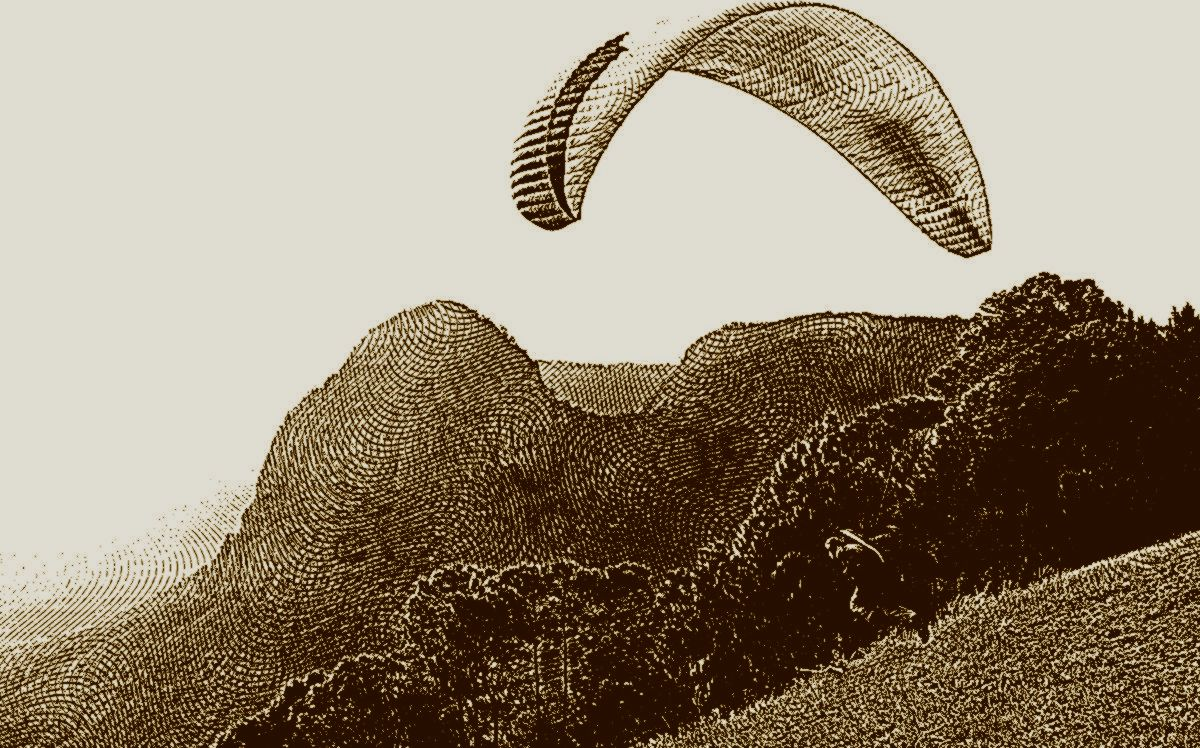
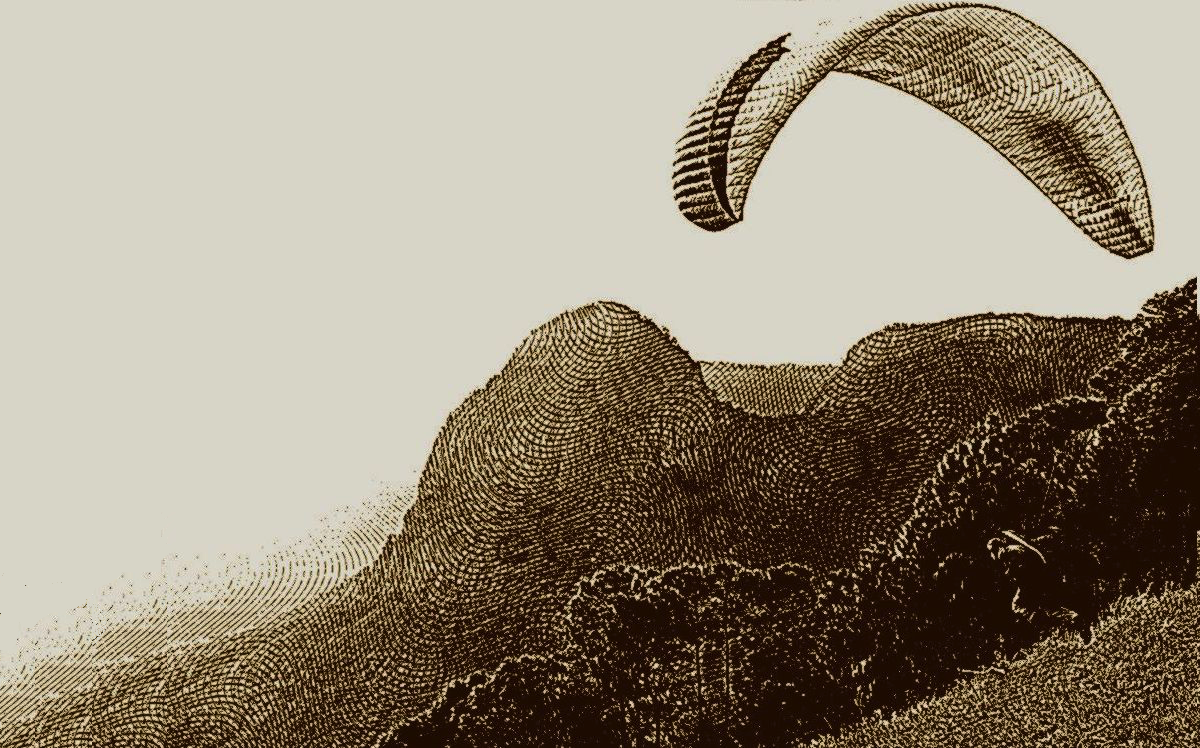
Remove console logs and empty/duplicate files.

diff --git a/index.html b/index.html
@@ -13,8 +13,8 @@
       <div class='page'>
       <header>
         <div style='width:100%;' class='clearfix'>
-        <h1 style='float:right;'>Flight Log</h1>
-        <div>
+          <h1 style='float:right;'>Flight Log</h1>
+        </div>
         <h4><a id='logout' name='logout'>Sign Out</a></h4>
       </header>
       <hr>
@@ -35,9 +35,9 @@
           <input class='login' name="credentials[password]" type="password" placeholder="password">
           <button type='submit'>Log In</button>
         </form>
-        <h4 id='sign-up-link'>Don't have a username yet? <a>Please Sign Up!</a><h4>
+        <h4 id='sign-up-link'>Don't have a username yet? <a>Please Sign Up!</a></h4>
         <form id='sign-up'>
-          <h3>First time here? Pick a username and Password to sign up</h3>
+          <h3>First time here?</h3><h4> Pick a username and Password to sign up</h4>
           <input class='login' name="credentials[email]" type='text' placeholder="username">
           <input class='login' name="credentials[password]" type="password" placeholder="password">
           <input class='login' name="credentials[password_confirmation]" type="password" placeholder="confirm password">
@@ -49,94 +49,93 @@
       </section>
       <h2 id="section-header"></h2>
       <p id="section-alerts" class='alert'></p>
-       <div class='image-container'>
-         <img id='pg-sketch' src="https://raw.githubusercontent.com/dianamcnulty/flightlogclient/master/assets/images/glidersketch.jpg" alt='paraglider-sketch'>
-       </div>
+     <div class='image-container'>
+       <img id='pg-sketch' src="https://raw.githubusercontent.com/dianamcnulty/flightlogclient/master/assets/images/glidersketch.jpg" alt='paraglider-sketch'>
+     </div>
 <!-- Add Flights section -->
-      <section id='add-flights-view' class='page'>
-        <form id='new-flight-form' autocomplete="on">
-          <label>Flight Type:</label><input class="flight-input" type="string" name="flight[flight_type]" placeholder="pg, hg, ppg, etc."><br>
-          <label>Date:</label><input class="flight-input" type="date" name="flight[date]" autocomplete="off"><br>
-          <label>Time:</label><input class="flight-input" type="time" name="flight[time]" autocomplete="off"><br>
-          <label>Location:</label><input class="flight-input" type="text" name="flight[launch]" placeholder="Launch Site"><br>
-          <label>Landing Zone:</label><input class="flight-input" type="text" name="flight[lz]" placeholder="Landing Zone"><br>
-          <label>Duration:</label> <span class='input-desc'>hrs.</span><input class="flight-input number-box" type="number" min='0' name="flight[hrs]"  placeholder="0" autocomplete="off">
-          <span>mins.</span><input class="flight-input number-box" type="number" min='0' name="flight[min]"  placeholder="0" autocomplete="off">
-          <br>
-          <label>Distance:</label> <span class='input-desc'>kms.</span> <input class="flight-input number-box" type="number"step="0.1" min='0' name="flight[distance]" placeholder="0.00"><br>
-          <label>Glider:</label> <input class="flight-input" type="text" name="flight[wing]" placeholder="Glider"><br>
-          <label>Notes:</label> <br>
-          <textarea class="flight-input edit-note" rows="4" cols="50" name="flight[notes]" form="new-flight-form" placeholder="enter notes here..." autocomplete="off"></textarea><br>
-          <button type="submit">Save</button>
-        </form>
-      </section>
+    <section id='add-flights-view' class='page'>
+      <form id='new-flight-form' autocomplete="on">
+        <label>Flight Type:</label><input class="flight-input" type="text" name="flight[flight_type]" placeholder="pg, hg, ppg, etc."><br>
+        <label>Date:</label><input class="flight-input" type="date" name="flight[date]" autocomplete="off"><br>
+        <label>Time:</label><input class="flight-input" type="time" name="flight[time]" autocomplete="off"><br>
+        <label>Location:</label><input class="flight-input" type="text" name="flight[launch]" placeholder="Launch Site"><br>
+        <label>Landing Zone:</label><input class="flight-input" type="text" name="flight[lz]" placeholder="Landing Zone"><br>
+        <label>Duration:</label> <span class='input-desc'>hrs.</span><input class="flight-input number-box" type="number" min='0' name="flight[hrs]"  placeholder="0" autocomplete="off">
+        <span>mins.</span><input class="flight-input number-box" type="number" min='0' name="flight[min]"  placeholder="0" autocomplete="off">
+        <br>
+        <label>Distance:</label> <span class='input-desc'>kms.</span> <input class="flight-input number-box" type="number"step="0.1" min='0' name="flight[distance]" placeholder="0.00"><br>
+        <label>Glider:</label> <input class="flight-input" type="text" name="flight[wing]" placeholder="Glider"><br>
+        <label>Notes:</label> <br>
+        <textarea class="flight-input edit-note" rows="4" cols="50" name="flight[notes]" form="new-flight-form" placeholder="enter notes here..."></textarea><br>
+        <button type="submit">Save</button>
+      </form>
+    </section>
 <!-- flight-table stuff here -->
-      <section class='flight-table'>
-        <div id='flight-table-contents' class='flight-table'></div>
-      </section>
+    <section class='flight-table'>
+      <div id='flight-table-contents' class='flight-table'></div>
+    </section>
 <!-- modal for edit flight -->
-      <div>
-        <div class="modal fade" id="edit-modal" tabindex="-1" role="dialog" aria-labelledby="editModalLabel" aria-hidden="true">
-          <div class="modal-dialog" role="document">
-
-            <div class="modal-content" >
-              <div class="modal-header">
-                <button type="button" class="close" data-dismiss="modal" aria-label="Close">
-                  <span aria-hidden="true">&times;</span>
-                </button>
-                <h3 class="modal-title" id="modal-label">Update This Flight</h3>
-                <p class='alert' id='update-error' style='margin-bottom: 0;'></p>
-              </div>
-              <div class="modal-body" id='edit-flight-content'>
-
-            </div>
-            <div class="modal-footer">
-              <button type="button" class="btn navlink" style="float: left;" data-dismiss="modal">Cancel</button>
-            </div>
-            </div>
-          </div>
-        </div>
-      </div>
-<!--  delete modal here -->
-      <div class="modal fade" id="delete-modal" tabindex="-1" role="dialog" aria-labelledby="deleteModalLabel" aria-hidden="true">
+    <div>
+      <div class="modal fade" id="edit-modal" tabindex="-1" role="dialog" aria-labelledby="editModalLabel" aria-hidden="true">
         <div class="modal-dialog" role="document">
-          <div class="modal-content">
+
+          <div class="modal-content" >
             <div class="modal-header">
-              <h3 class="modal-title" id="deleteModalLabel">Delete your Flight?</h3>
-              <button type="button" class="close nevermind" data-dismiss="modal" aria-label="Close">
+              <button type="button" class="close" data-dismiss="modal" aria-label="Close">
                 <span aria-hidden="true">&times;</span>
               </button>
+              <h3 class="modal-title" id="modal-label">Update This Flight</h3>
+              <p class='alert' id='update-error' style='margin-bottom: 0;'></p>
             </div>
-            <div class="modal-body">
-              <p>Are you sure you want to delete this flight? It will be gone forever!</p>
-              <p id='delete-modal-alert'></p>
-            </div>
-            <div class="modal-footer">
-              <button type="button" class="btn navlink nevermind" data-dismiss="modal">Nevermind.</button>
-              <button id='confirm-delete' data-id="" type="button" class="btn navlink">Delete it!</button>
-            </div>
+            <div class="modal-body" id='edit-flight-content'>
+
+          </div>
+          <div class="modal-footer">
+            <button type="button" class="btn navlink" style="float: left;" data-dismiss="modal">Cancel</button>
+          </div>
           </div>
         </div>
       </div>
-<!-- Stats stuff here -->
-      <section id='stats-view'>
-        <div>
-          <h3 class='stat-label'>Number of Flights:</h3><span id='flight-count' class='input-desc'></span>
-          <br>
-          <h3 class='stat-label'>Total Flight Hours:</h3><span id='hour-sum' class='input-desc'></span>
-          <br><h3 class='stat-label'>Number of Sites Flown:</h3><span id='site-count' class='input-desc'></span>
+    </div>
+<!--  delete modal here -->
+    <div class="modal fade" id="delete-modal" tabindex="-1" role="dialog" aria-labelledby="deleteModalLabel" aria-hidden="true">
+      <div class="modal-dialog" role="document">
+        <div class="modal-content">
+          <div class="modal-header">
+            <h3 class="modal-title" id="deleteModalLabel">Delete your Flight?</h3>
+            <button type="button" class="close nevermind" data-dismiss="modal" aria-label="Close">
+              <span aria-hidden="true">&times;</span>
+            </button>
+          </div>
+          <div class="modal-body">
+            <p>Are you sure you want to delete this flight? It will be gone forever!</p>
+            <p id='delete-modal-alert'></p>
+          </div>
+          <div class="modal-footer">
+            <button type="button" class="btn navlink nevermind" data-dismiss="modal">Nevermind.</button>
+            <button id='confirm-delete' data-id="" type="button" class="btn navlink">Delete it!</button>
+          </div>
         </div>
+      </div>
+    </div>
+<!-- Stats stuff here -->
+    <section id='stats-view'>
+      <div>
+        <h3 class='stat-label'>Number of Flights:</h3><span id='flight-count' class='input-desc'></span>
         <br>
-        <br>
-        <section class='page highlight'>
-          <h3>Your Record Best</h3>
-          <h3 class='stat-label' style='width:200;'>Farthest Flight: </h3><span id='most-km' ></span><br>
-          <label>Date: </label><span id='farthest-date'></span><br>
-          <label>Location: </label><span id='farthest-location'></span><br><br>
-          <h3 class='stat-label'>Longest Flight: </h3><span id='most-hrs'></span><br>
-          <label>Date: </label><span id='longest-date'></span><br>
-          <label>Location: </label><span id='longest-location'></span><br>
-        </section>
+        <h3 class='stat-label'>Total Flight Hours:</h3><span id='hour-sum' class='input-desc'></span>
+        <br><h3 class='stat-label'>Number of Sites Flown:</h3><span id='site-count' class='input-desc'></span>
+      </div>
+      <br><br>
+      <section class='page highlight'>
+        <h3>Your Record Best</h3>
+        <h3 class='stat-label' style='width:200;'>Farthest Flight: </h3><span id='most-km' ></span><br>
+        <label>Date: </label><span id='farthest-date'></span><br>
+        <label>Location: </label><span id='farthest-location'></span><br><br>
+        <h3 class='stat-label'>Longest Flight: </h3><span id='most-hrs'></span><br>
+        <label>Date: </label><span id='longest-date'></span><br>
+        <label>Location: </label><span id='longest-location'></span><br>
+      </section>
         <section class='gliders' id='glider-stat-content'>
         </section>
       </section>

diff --git a/assets/scripts/flightevents/flightlist_events.js b/assets/scripts/flightevents/flightlist_events.js
@@ -4,7 +4,6 @@ const flightAjax = require('../API/flightapi')
 const getFormFields = require(`../../../lib/get-form-fields`)
 
 const getFlightsSuccess = function (data) {
-  console.log(data.flights.length, data)
   if (data.flights.length > 0) {
     const showFlightTable = showFlightsTemplate({ flights: data.flights })
     $('#flight-table-contents').html(showFlightTable)
@@ -33,16 +32,13 @@ const editFlight = function (event) {
     .catch(() => { $('#update-error').text('Sorry, that didn\'t work. Please try again. Please note, Date and time are required.') })
 }
 const getOneFlightSuccess = function (data) {
-  console.log('flight success!', data)
   data['flight']['hrs'] = parseInt(data['flight']['duration'])
   data['flight']['min'] = parseInt(((data['flight']['duration']) - (data['flight']['hrs'])) * 60)
-  console.log('this is data after calculation', data)
   const editFlightModal = editFlightTemplate({ flight: data.flight })
   $('#edit-flight-content').html(editFlightModal)
 }
 
 const editButtonBehavior = function () {
-  console.log('clicked edit', event.target.dataset.id)
   $('#section-alerts').text('')
   const id = event.target.dataset.id
   // event.target.dataset.id === id of the flight
@@ -65,7 +61,6 @@ const deleteFlightSuccess = function () {
 }
 const confirmDeleteBehavior = function (event) {
   const id = event.target.dataset.id
-  console.log('id for confirm is', id)
   flightAjax.deleteFlight(id)
     .then(deleteFlightSuccess)
     .catch(() => $('#delete-modal-alert').text('Sorry, there was an error deleting your flight, Please try again later.'))

diff --git a/assets/scripts/API/flightapi.js b/assets/scripts/API/flightapi.js
@@ -1,12 +1,11 @@
 const config = require('../config')
 const store = require('../store')
+
 // pass in "data" to form
 // when ajax is called set data first with this: const data = getFormFields(this)
 const newFlightRequest = function (data) {
-  console.log('sending new flight data', data)
   return $.ajax({
     url: config.apiOrigin + '/flights',
-    // url: 'http://localhost:4741/flights',
     method: 'POST',
     headers: {
       Authorization: 'Token token=' + store.user.token
@@ -16,7 +15,6 @@ const newFlightRequest = function (data) {
 }
 
 const getAllFlights = function () {
-  console.log('sending get flights call')
   return $.ajax({
     url: config.apiOrigin + '/flights',
     method: 'GET',
@@ -26,7 +24,6 @@ const getAllFlights = function () {
   })
 }
 const getOneFlight = function (id) {
-  console.log('sending get flights call')
   return $.ajax({
     url: config.apiOrigin + '/flights/' + id,
     method: 'GET',
@@ -37,10 +34,8 @@ const getOneFlight = function (id) {
 }
 const updateFlightRequest = function (data) {
   const id = parseInt(data['flight']['id'])
-  console.log('id is', id, 'id type is', typeof id)
   return $.ajax({
     url: config.apiOrigin + '/flights/' + id,
-    // url: 'http://localhost:4741/flights',
     method: 'PATCH',
     headers: {
       Authorization: 'Token token=' + store.user.token
@@ -49,7 +44,6 @@ const updateFlightRequest = function (data) {
   })
 }
 const deleteFlight = function (id) {
-  console.log('id in Ajax is', id)
   return $.ajax({
     url: config.apiOrigin + '/flights/' + id,
     method: 'DELETE',

diff --git a/assets/scripts/auth/authevents.js b/assets/scripts/auth/authevents.js
@@ -12,18 +12,15 @@ const signUpBehavior = function (event) {
 const logInBehavior = function (event) {
   event.preventDefault()
   const data = getFormFields(this)
-  console.log('I clicked the login button', this)
   api.logIn(data)
     .then(authui.logInSuccess)
     .catch(authui.logInFail)
 }
 const logOutBehavior = function () {
-  console.log('I clicked logout')
   api.logOut()
     .then(authui.logOutSuccess)
     .catch(() => $('#password.message').text('Whoops, there was an error logging out. Please try that again.'))
 }
-
 const passwordBehavior = function (event) {
   event.preventDefault()
   const data = getFormFields(this)
@@ -38,7 +35,7 @@ const clickHandlers = function () {
   $('#password-update').on('submit', passwordBehavior)
   $('#sign-up-link').on('click', () => {
     $('#sign-up-link').hide()
-    $('#auth-error').hide('')
+    $('#auth-error').hide()
     $('#sign-up').show()
   })
 }

diff --git a/assets/scripts/nav/views.js b/assets/scripts/nav/views.js
@@ -22,7 +22,7 @@ const landingView = function () {
   $('#logout').show()
   $('#auth').hide()
   $('#stats-view').hide()
-  $('.alert').text('')
+  $('#auth-error').hide()
   $('#navbar').show()
   $('#flight-table-contents').hide()
   $('#section-header').text('Did you have good flight?')
@@ -38,7 +38,6 @@ const profileView = function () {
   $('#section-alerts').text('')
 }
 const showFlightsView = function () {
-  console.log('clicked the view button')
   $('#password-update').hide()
   $('#pg-sketch').hide()
   $('#stats-view').hide()
@@ -49,7 +48,6 @@ const showFlightsView = function () {
   flightListEvents.listFlightsBehavior()
 }
 const addFlightsView = function () {
-  console.log('clicked the add button')
   $('#password-update').hide()
   $('#pg-sketch').hide()
   $('#flight-error').hide()

diff --git a/assets/scripts/API/userapi.js b/assets/scripts/API/userapi.js
@@ -9,7 +9,6 @@ const signUp = function (data) {
   })
 }
 const logIn = function (data) {
-  console.log(data)
   return $.ajax({
     url: config.apiOrigin + '/sign-in',
     method: 'POST',
@@ -17,7 +16,6 @@ const logIn = function (data) {
   })
 }
 const logOut = function () {
-  // console.log('store id is', store)
   return $.ajax({
     url: config.apiOrigin + '/sign-out/' + store.user.id,
     method: 'DELETE',
@@ -27,7 +25,6 @@ const logOut = function () {
   })
 }
 const updatePassword = function (data) {
-  // console.log('data is', data, 'store is', store)
   return $.ajax({
     url: config.apiOrigin + '/change-password/' + store.user.id,
     method: 'PATCH',

diff --git a/assets/scripts/flightUI/addflightUI.js b/assets/scripts/flightUI/addflightUI.js
@@ -1,13 +1,11 @@
 const views = require('../nav/views')
 
 const newFlightSuccess = function (response) {
-  console.log('flight API success', response)
   $('.flight-input').val('')
   views.landingView()
   $('#section-alerts').text('Your flight has been added successfully')
 }
-const newFlightFailure = function (err) {
-  console.log('failure was triggered', err)
+const newFlightFailure = function () {
   $('#section-header').text('Add a Flight')
   $('#section-alerts').hide()
   $('#section-alerts').text("Uh...Oooooohhh... That flight didn't save. Please check your fields and try again. Date and Time are required.")

diff --git a/assets/scripts/flightevents/addflight_events.js b/assets/scripts/flightevents/addflight_events.js
@@ -6,7 +6,6 @@ const addFlightUi = require('../flightUI/addflightUI')
 const newFlightBehavior = function (event) {
   event.preventDefault()
   const data = getFormFields(this)
-  console.log('what comes back from getFormFields:', data)
   // console.log(data['flight']['hrs'], data['flight']['duration'])
   data['flight']['duration'] = (parseInt(data['flight']['hrs']) + parseInt(data['flight']['min']) / 60).toFixed(2)
   // console.log('after calculation', data)

diff --git a/assets/styles/fonts.scss b/assets/styles/fonts.scss
@@ -1,4 +1,3 @@
-// @import url('https://fonts.googleapis.com/css?family=IM+Fell+English');
 @import url('https://fonts.googleapis.com/css?family=IM+Fell+English|Special+Elite');
 
 $big-font: 'IM Fell English', courier, serif;

diff --git a/assets/scripts/auth/authui.js b/assets/scripts/auth/authui.js
@@ -21,7 +21,6 @@ const logInFail = function () {
 }
 const logInSuccess = function (data) {
   store.user = data.user
-  console.log('signed in successfully', store)
   view.landingView()
   $('.login').val('')
 }

diff --git a/assets/styles/theme.scss b/assets/styles/theme.scss
@@ -217,8 +217,8 @@ img {
   }
   img {
     position: absolute;
-    top: 140px;
-    right:0;
+    top: 110px;
+    right: 0;
     z-index: -1;
   }
   .navlink {
